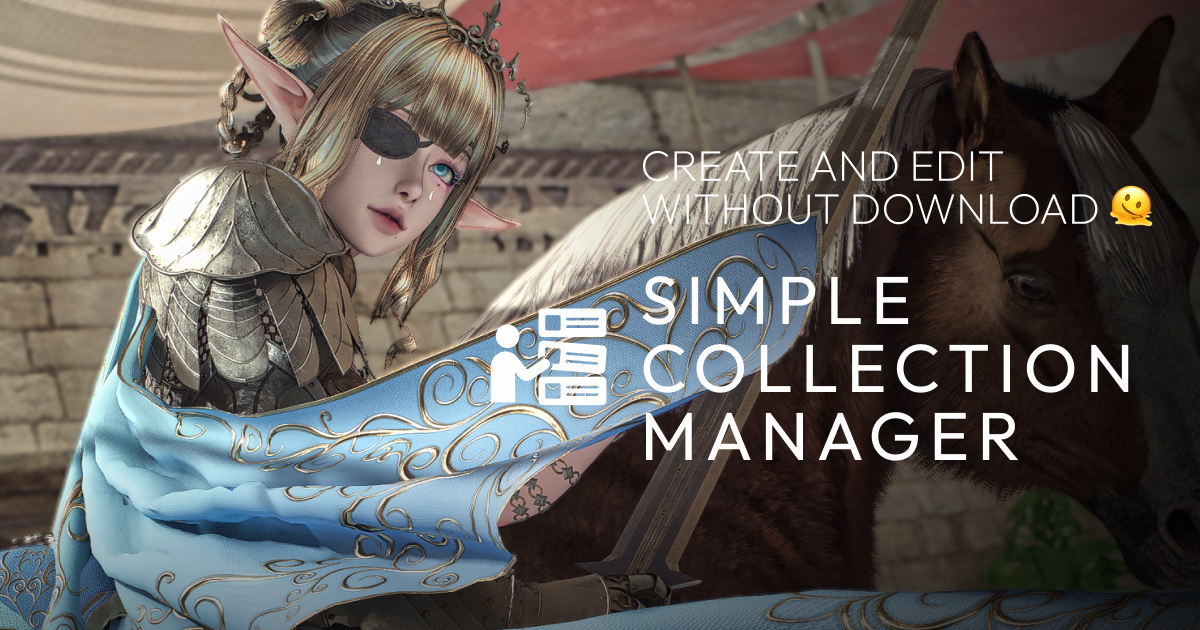
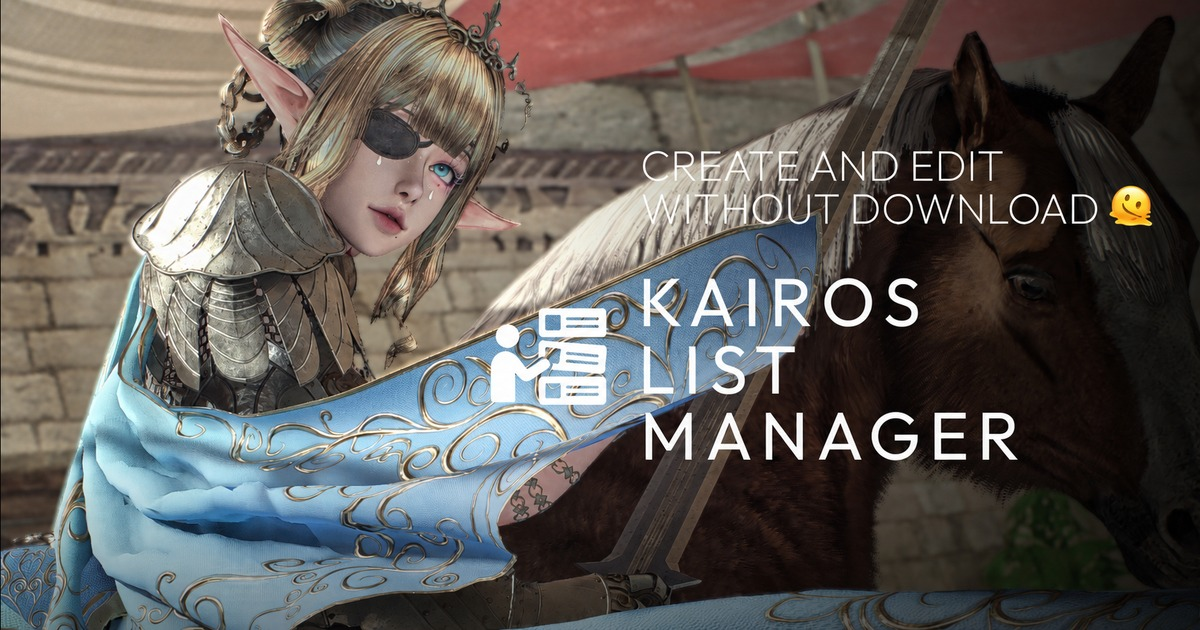
Renomeia aplicativo para Kairos List Manager

diff --git a/app/legal-content.tsx b/app/legal-content.tsx
@@ -4,7 +4,7 @@ export function PrivacyContent() {
       <p><strong>Effective date: July 13, 2026.</strong></p>
       <h2>Data we process</h2>
       <p>
-        Simple Collection Manager uses Nexus Mods OAuth with PKCE. During sign-in, Nexus Mods provides access and,
+        Kairos List Manager uses Nexus Mods OAuth with PKCE. During sign-in, Nexus Mods provides access and,
         when available, refresh tokens plus account information such as your user ID, display name, and email address if
         Nexus returns it. Tokens are
         encrypted before they are stored in the application database. Your browser receives only a random HttpOnly
@@ -31,7 +31,7 @@ export function PrivacyContent() {
       </p>
       <h2>Independent service and changes</h2>
       <p>
-        Simple Collection Manager is an independent Viny Mods project and is not affiliated with, endorsed by, or
+        Kairos List Manager is an independent Viny Mods project and is not affiliated with, endorsed by, or
         operated by Nexus Mods. Material policy changes will be posted here with a new effective date.
       </p>
     </>
@@ -44,7 +44,7 @@ export function TermsContent() {
       <p><strong>Effective date: July 13, 2026.</strong></p>
       <h2>Using the service</h2>
       <p>
-        Simple Collection Manager is an independent tool for organizing and publishing Nexus Mods collections. You must
+        Kairos List Manager is an independent tool for organizing and publishing Nexus Mods collections. You must
         use a Nexus account you are authorized to access, comply with applicable law and Nexus Mods terms and API rules,
         and review collection contents before publishing them.
       </p>

diff --git a/app/layout.tsx b/app/layout.tsx
@@ -4,8 +4,8 @@ import './globals.css';
 export const metadata: Metadata = {
   metadataBase: new URL(process.env.NEXT_PUBLIC_SITE_URL || 'https://kairos.vinymods.com.br'),
   title: {
-    default: 'Simple Collection Manager',
-    template: '%s | Simple Collection Manager'
+    default: 'Kairos List Manager',
+    template: '%s | Kairos List Manager'
   },
   description: 'Create, edit, and publish Nexus Mods collections from the browser.',
   icons: {
@@ -14,22 +14,22 @@ export const metadata: Metadata = {
     apple: '/logo.svg'
   },
   openGraph: {
-    title: 'Simple Collection Manager',
+    title: 'Kairos List Manager',
     description: 'Create, edit, and publish Nexus Mods collections from the browser.',
-    siteName: 'Simple Collection Manager',
+    siteName: 'Kairos List Manager',
     images: [
       {
         url: '/social-thumb.jpg',
         width: 1200,
         height: 630,
-        alt: 'Simple Collection Manager'
+        alt: 'Kairos List Manager'
       }
     ],
     type: 'website'
   },
   twitter: {
     card: 'summary_large_image',
-    title: 'Simple Collection Manager',
+    title: 'Kairos List Manager',
     description: 'Create, edit, and publish Nexus Mods collections from the browser.',
     images: ['/social-thumb.jpg']
   },

diff --git a/app/page.tsx b/app/page.tsx
@@ -763,7 +763,7 @@ export default function Home() {
                 <span className="api-accent" />
               </div>
               <div>
-                <h1>Simple Collection Manager</h1>
+                <h1>Kairos List Manager</h1>
               </div>
             </div>
 
@@ -1312,7 +1312,7 @@ export default function Home() {
       <section className="stage-card legal-stage">
         {renderPageHeading(
           isTerms ? 'Terms of Service' : 'Privacy Policy',
-          isTerms ? 'Usage terms for Simple Collection Manager.' : 'How the app handles OAuth sessions and Nexus account data.'
+          isTerms ? 'Usage terms for Kairos List Manager.' : 'How the app handles OAuth sessions and Nexus account data.'
         )}
         <div className="stage-scroll">
           <article className="legal-card in-app">
@@ -1340,8 +1340,8 @@ export default function Home() {
         <div className="sidebar-brand">
           <img src="/logo.svg" alt="" />
           <div>
-            <strong>Simple</strong>
-            <span>Collection Manager</span>
+            <strong>Kairos</strong>
+            <span>List Manager</span>
           </div>
         </div>
         <section className="sidebar-nexus-card">

diff --git a/lib/nexus.ts b/lib/nexus.ts
@@ -2,7 +2,7 @@ import type { ModFile, ModSummary } from './types';
 
 const BASE = process.env.NEXUS_API_BASE || 'https://api.nexusmods.com/v1';
 const V3_BASE = process.env.NEXUS_API_V3_BASE || 'https://api.nexusmods.com/v3';
-const APPLICATION_NAME = process.env.NEXUS_APPLICATION_NAME || 'Simple Collection Manager';
+const APPLICATION_NAME = process.env.NEXUS_APPLICATION_NAME || 'Kairos List Manager';
 const APPLICATION_VERSION = process.env.NEXUS_APPLICATION_VERSION || '0.1.0';
 const NEXUS_REQUEST_TIMEOUT_MS = 10_000;
 const APPROVED_NEXUS_HOSTS = new Set(

diff --git a/app/terms/page.tsx b/app/terms/page.tsx
@@ -3,7 +3,7 @@ import { TermsContent } from '../legal-content';
 
 export const metadata: Metadata = {
   title: 'Terms of Service',
-  description: 'Terms of Service for Simple Collection Manager.'
+  description: 'Terms of Service for Kairos List Manager.'
 };
 
 export default function TermsPage() {

diff --git a/app/privacy/page.tsx b/app/privacy/page.tsx
@@ -3,7 +3,7 @@ import { PrivacyContent } from '../legal-content';
 
 export const metadata: Metadata = {
   title: 'Privacy Policy',
-  description: 'Privacy Policy for Simple Collection Manager.'
+  description: 'Privacy Policy for Kairos List Manager.'
 };
 
 export default function PrivacyPage() {

diff --git a/README.md b/README.md
@@ -1,6 +1,6 @@
-# Simple Collection Manager
+# Kairos List Manager
 
-Simple Collection Manager is an independent Next.js application for assembling, importing, reviewing, and publishing
+Kairos List Manager is an independent Next.js application for assembling, importing, reviewing, and publishing
 Nexus Mods collections. Users connect with Nexus Mods OAuth 2.0 using Authorization Code + PKCE; API credentials are
 never entered into or exposed to browser JavaScript.
 
